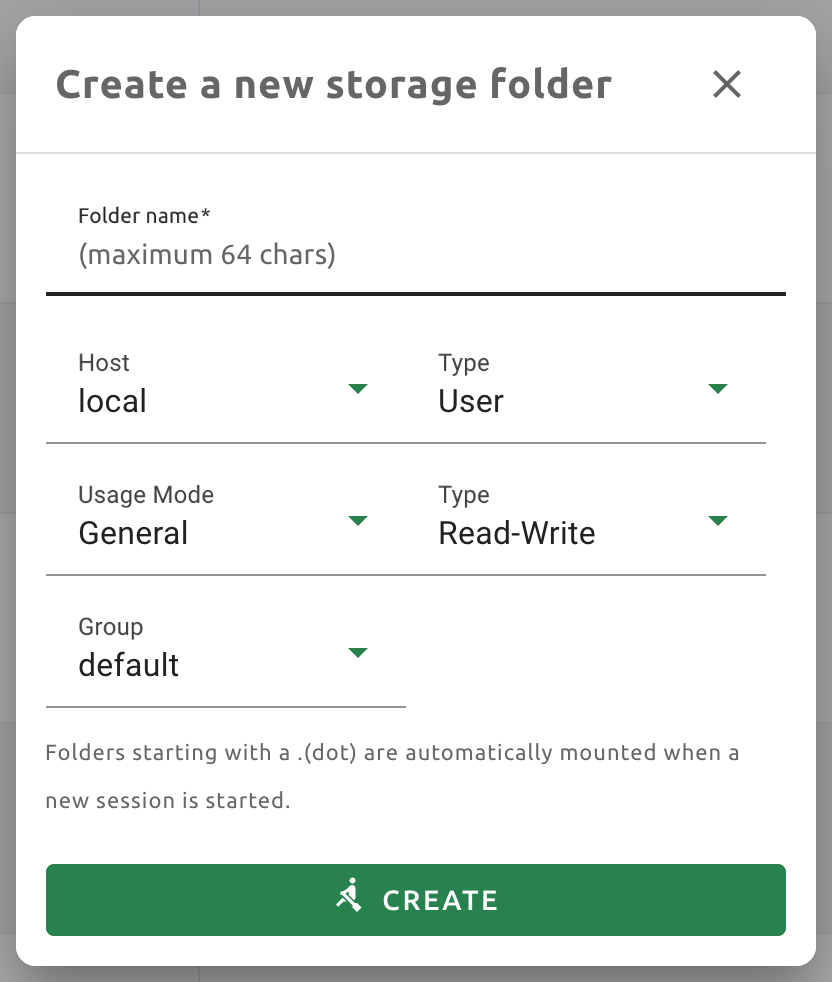
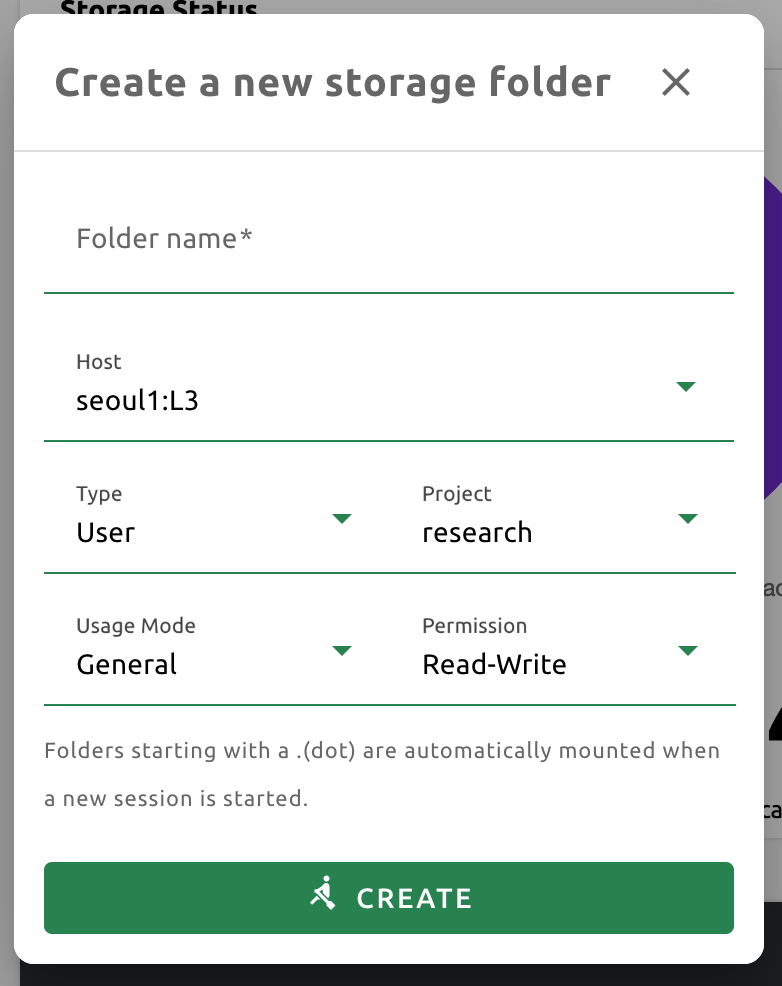
docs: rename user's "group" to "project"

diff --git a/docs/overview/overview.rst b/docs/overview/overview.rst
@@ -37,13 +37,13 @@ Key Concepts
   their computing sessions, domain admins have the authority to perform
   tasks within a domain, and superadmins perform almost all tasks throughout the
   system. A user belongs to one domain and can belong to
-  multiple groups within a domain.
+  multiple projects within a domain.
 - Compute session, container: An isolated virtual environment in which your
   code runs. It looks like a real Linux server with full user rights,
   and you can't see other user's session even if it's running on the same
   server as your session. Backend.AI implements this virtual environment through
   a technology called containers. You can only create compute sessions within
-  the domain and groups to which you belong.
+  the domain and projects to which you belong.
 - Domain: This is the top layer for authority and resource control supported by
   Backend.AI. For companies or organizations, you can view domains as an
   affiliate and set up per-domain (or per-affiliate) permissions and resource
@@ -53,14 +53,14 @@ Key Concepts
   sessions. For example, if you set the total amount of resources available in a
   domain, the resources of all containers created by users in the domain cannot
   be greater than the amount set.
-- Groups: A hierarchy belonging to a domain. Multiple groups can exist in one
-  domain. You can think of a group as a project unit. A user can belong to
-  multiple groups (or projects) at the same time within a domain. Compute
-  sessions must belong to one group, and users can only create sessions within
-  their own groups. Domain admins can set policies or manage sessions for
-  groups within the domain. For example, if you set the total amount of
-  resources available within a group, the resources in all containers created by
-  users in the group cannot be greater than the amount set.
+- Projects: A hierarchy belonging to a domain. Multiple projects can exist in one
+  domain. You can think of a project as a project working unit. A user can belong to
+  multiple projects at the same time within a domain. Compute
+  sessions must belong to one project, and users can only create sessions within
+  their own projects. Domain admins can set policies or manage sessions for
+  projects within the domain. For example, if you set the total amount of
+  resources available within a project, the resources in all containers created by
+  users in the project cannot be greater than the amount set.
 - Image: Each container has a pre-installed language-specific runtime and
   various computational frameworks. The state of such snapshots before they are
   executed is called an image. You can choose to run an image provided by the
@@ -113,7 +113,7 @@ Backend.AI feature details
 +                      +-------------------------------------------------------+
 |                      | Per-user (keypair) resource policy                    |
 +                      +-------------------------------------------------------+
-|                      | (Enterprise) Per-group resource policy                |
+|                      | (Enterprise) Per-project resource policy                |
 +                      +-------------------------------------------------------+
 |                      | Availability-slot based scheduling                    |
 +----------------------+-------------------------------------------------------+
@@ -122,7 +122,7 @@ Backend.AI feature details
 |                      | (Enterprise) Access control of users to               |
 |                      | resource group                                        |
 +                      +-------------------------------------------------------+
-|                      | (Enterprise) Access control of group to               |
+|                      | (Enterprise) Access control of project to               |
 |                      | resource group                                        |
 +----------------------+-------------------------------------------------------+
 | Security             | Sandboxing via hypervisor/container                   |
@@ -141,7 +141,7 @@ Backend.AI feature details
 |                      | (Enterprise) Dedicated flash-storage integration:     |
 |                      | PureStorage FlashBlade                                |
 +                      +-------------------------------------------------------+
-|                      | Access control to data by user/group                  |
+|                      | Access control to data by user/project
 +----------------------+-------------------------------------------------------+
 | Developer support    | Universal programming languages (Python, C/C++, etc)  |
 +                      +-------------------------------------------------------+

diff --git a/docs/vfolder/vfolder.rst b/docs/vfolder/vfolder.rst
@@ -15,9 +15,9 @@ such as the folder name and ID, the NFS host name where the folder is located
 
 There are two types of storage folders. User folders can be created by
 normal users, and you can see that there is one user icon in the Type panel.
-On the other hand, Group folders can be recognized by an icon with multiple
-users in the panel. Group folders are created by domain admins, and normal
-users can only see group folders created for the group in which the users
+On the other hand, Project folders can be recognized by an icon with multiple
+users in the panel. Project folders are created by domain admins, and normal
+users can only see project folders created for the project in which the users
 belong.
 
 Storage Status on top of the folder list shows the following information:
@@ -26,7 +26,7 @@ Storage Status on top of the folder list shows the following information:
 * Invited: The number of folers that the user was invited to share.
 * Capacity: The maximum number of folders that the user can create afterwards.
   This value depends on the resource policy applied to the user and cannot be changed
-  without changing the resource policy. Folders that were not created by the user (eg. folders invited to share, or group folders) are not counted.
+  without changing the resource policy. Folders that were not created by the user (eg. folders invited to share, or project folders) are not counted.
 
 Check marks on the Owner panel in the folder list indicate the user created folders.
 
@@ -38,10 +38,10 @@ Create storage folder
 
 You can create a storage folder with the desired name by clicking the NEW FOLDER
 button. Enter the name of the folder to be created in Folder name, and select
-one of User / Group for Type. (Depending on the server settings, only one of
-User or Group may be selectable.) When creating a group folder, the Group field
-must be set. The group folder will be bound to the group specified in the Group
-field, and only users belonging to the group can mount and use the group folder.
+one of User / Project for Type. (Depending on the server settings, only one of
+User or Project may be selectable.) When creating a project folder, the Project field
+must be set. The project folder will be bound to the project specified in the Project
+field, and only users belonging to the project can mount and use the project folder.
 After setting the values as desired, you can create a folder by clicking the
 CREATE button.
 
@@ -57,14 +57,14 @@ follows.
 * Host: NFS host to create folder. You can choose one if you have multiple NFS
   hosts.
 * Type: Determines the type of folder to be created. It can be set as User or
-  Group. The User folder is a folder that users can create and use alone
-  and the Group folder is a folder created by admin and shared by users in the group.
+  Project. The User folder is a folder that users can create and use alone
+  and the Project folder is a folder created by admin and shared by users in the project.
 * Usage Mode: You can set the purpose of the folder. There are three types of mode:
   General, Data, and Model. It is classified for the development of exclusive functions
   for Data & Model Stores in the future and currently there is no
   difference in UI depending on the purpose.
-* Group: Designates the group to which the folder belongs when creating a new group folder.
-  Group folders must belong to a group. However, it does not play any
+* Project: Designates the project to which the folder belongs when creating a new project folder.
+  Project folders must belong to a project. However, it does not play any
   role when creating a user folder.
 
 Explore folder

diff --git a/docs/admin_menu/admin_menu.rst b/docs/admin_menu/admin_menu.rst
@@ -362,9 +362,9 @@ registry.
 Even if you created a registry and update meta information, users cannot use the
 images in the registry, immediately. Just as you had to register the allowed hosts
 to use the storage host, you must register the registry in the allowed docker
-registries field at the domain or group level, after registering the registry,
-so that users in the domain or group can access the registry image. Allowed
-docker registries can be registered using the Control-Panel with domain and group
+registries field at the domain or project level, after registering the registry,
+so that users in the domain or project can access the registry image. Allowed
+docker registries can be registered using the Control-Panel with domain and project
 management. The function to set the allowed docker registries in the keypair's
 resource policy is not provided yet.
 

diff --git a/docs/summary/summary.rst b/docs/summary/summary.rst
@@ -13,7 +13,7 @@ Topbar
    :alt: Topbar usermenu
 
 In the middle of the top bar is a drop-down menu to select the user's current
-project (group). If a user belongs to multiple projects, the user can change it from
+project. If a user belongs to multiple projects, the user can change it from
 here. Each project may have different resource policies, therefore changing the project
 also changes the available resource policies. If there are not many users, there
 may be only one default project.
